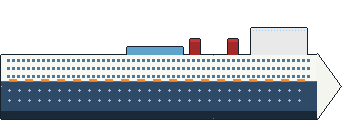
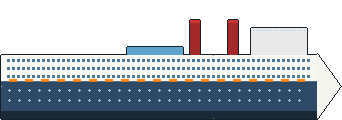
Restore original cruise ship funnels, fix smoke emitter height
Reverts funnel height to Math.floor(extraTop * 0.65) — the original tall
funnels. Updates smokeOffsets dy to -79 to match the top of the restored
funnel geometry.

Changed region(s): [[0.6433, 0.15, 0.7018, 0.35], [0.5556, 0.15, 0.5848, 0.35]]

diff --git a/src/objects/BoatAssets.ts b/src/objects/BoatAssets.ts
@@ -38,7 +38,7 @@ const RARITY_WEIGHTS: Record<BoatRarity, number> = {
 
 export const BOAT_DEFS: readonly BoatDef[] = [
   { key: 'fishing_boat', w:  84,           h: 30, texH:  44, rarity: 'common',    speed: 26, canDock: true  },
-  { key: 'cruise_ship',  w: 340, wlW: 300, h: 64, texH: 164, rarity: 'legendary', speed: 18, canDock: false, smokeOffsets: [{ dx: 24, dy: -60 }, { dx: 62, dy: -60 }] },
+  { key: 'cruise_ship',  w: 340, wlW: 300, h: 64, texH: 164, rarity: 'legendary', speed: 18, canDock: false, smokeOffsets: [{ dx: 24, dy: -79 }, { dx: 62, dy: -79 }] },
 ];
 
 export const ALL_BOAT_KEYS: readonly string[] = BOAT_DEFS.map(d => d.key);